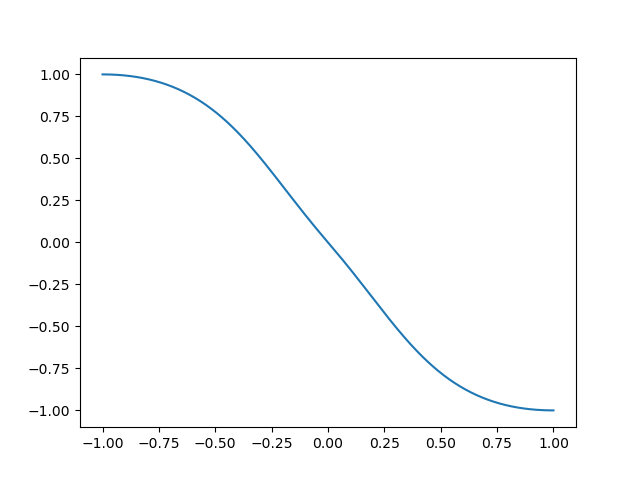
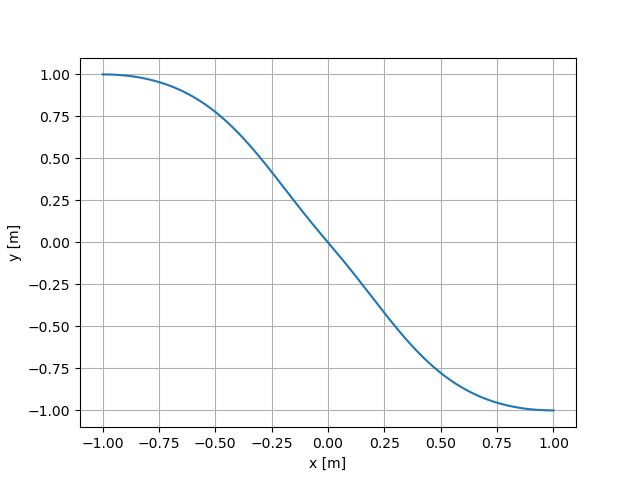
Add labels to axes

diff --git a/examples/fig_s.py b/examples/fig_s.py
@@ -46,4 +46,7 @@ np.savetxt('traj_figS.csv', T.T, delimiter=',')
 
 # Plot x-y trajectory
 plt.plot(x[0], x[1])
+plt.xlabel("x [m]")
+plt.ylabel("y [m]")
+plt.grid(visible=True)
 plt.show()
